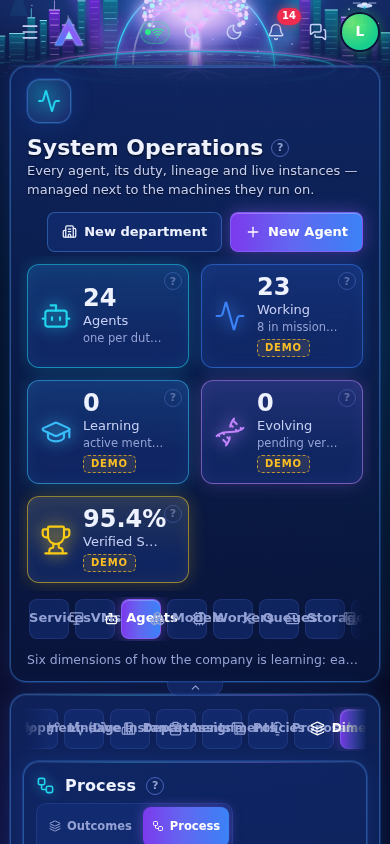
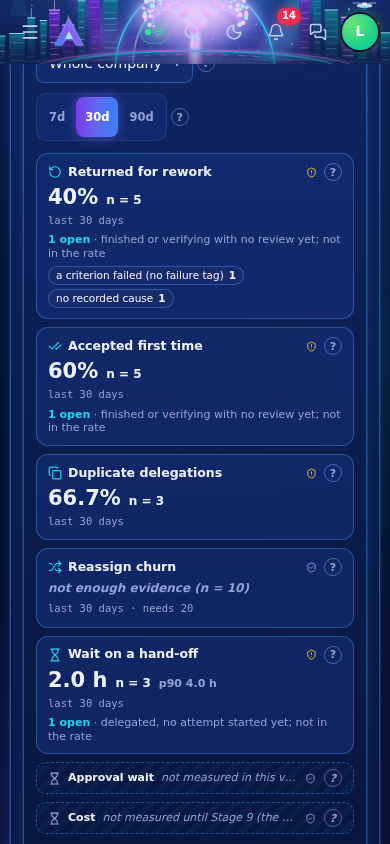
fix(c69): review round, simulator briefs are not delegation decisions, a clock test, the history scan reuses c66's, role names on the card controls, honest coverage notes
RED: c69-process-route with the system-brief filter removed: AssertionError: expected { …(15) } to match object { value: 66.7, n: 3 }
GREEN: c69-process-route 11/11 (incl. the clock test), c69-registry 4/4, contracts 15/15, api-c69 36/36.

diff --git a/web/src/features/agents/ProcessView.tsx b/web/src/features/agents/ProcessView.tsx
@@ -45,7 +45,7 @@ function Card({ c, w, i, g, demo }: { c: ProcessCell; w: ProcessWindow; i: numbe
         <HelpTrigger k={c.key} />
       </header>
       {c.state === 'ok'
-        ? <Tip label={c.evidence}><div className="proc-cv" tabIndex={0} aria-label={c.evidence}><b className="tnum">{fmtProc(c)}</b><span className="proc-n tnum">n = {c.n}</span>{p90 && <span className="proc-p90 tnum" title="90th percentile, nearest rank">{p90}</span>}
+        ? <Tip label={c.evidence}><div className="proc-cv" tabIndex={0} role="group" aria-label={`${c.label}: ${c.evidence}`}><b className="tnum">{fmtProc(c)}</b><span className="proc-n tnum">n = {c.n}</span>{p90 && <span className="proc-p90 tnum" title="90th percentile, nearest rank">{p90}</span>}
             {T && <small className="proc-tr" title={`previous window: ${prev} (n = ${c.previous.n})`}><T size={12} aria-hidden />{prev}</small>}</div></Tip>
         : <div className="proc-cv proc-none">{c.state === 'unmeasured' && <Hourglass size={12} aria-hidden />}{c.state === 'none' ? `not enough evidence (n = ${c.n})` : c.evidence}</div>}
       <div className="proc-meta tnum">{demo ? 'SAMPLE · ' : ''}{c.state === 'unmeasured' ? 'no source' : WIN[w]}{c.state === 'none' && c.minN ? ` · needs ${c.minN}` : ''}</div>
@@ -63,7 +63,7 @@ export function ProcessView({ data, error, w, byId, demo }: { data: ProcessDto |
     <div className="proc-wrap" data-process="ready" data-window={w} data-department={data.department ?? ''}>
       <div className="proc-grid" role="list" aria-label="Process figures">{measured.map((c, i) => <div role="listitem" key={c.key} className="proc-li"><Card c={c} w={w} i={i} g={byId(c.key, c.label)} demo={demo} /></div>)}</div>
       {blank.length > 0 && <div className="proc-blank" data-unmeasured={blank.map((c) => c.key).join(',')}>
-        {blank.map((c) => <div key={c.key} className="proc-bl" data-pcell={c.key} data-state="unmeasured"><Hourglass size={13} aria-hidden /><b>{c.label}</b><Tip label={c.evidence}><span tabIndex={0}>{c.evidence.split(':')[0]}</span></Tip><GuardTrigger g={byId(c.key, c.label)} compact /><HelpTrigger k={c.key} /></div>)}
+        {blank.map((c) => <div key={c.key} className="proc-bl" data-pcell={c.key} data-state="unmeasured"><Hourglass size={13} aria-hidden /><b>{c.label}</b><Tip label={c.evidence}><span tabIndex={0} role="note" aria-label={c.evidence}>{c.evidence.split(':')[0]}</span></Tip><GuardTrigger g={byId(c.key, c.label)} compact /><HelpTrigger k={c.key} /></div>)}
       </div>}
       <p className="dim dim-note proc-note">{data.department ?? 'Whole company'} · {new Date(data.from).toLocaleDateString()} to {new Date(data.to).toLocaleDateString()} · missions you can see; no simulated or DEMO rows · open items sit beside a figure, never inside it · no total, no "good" level</p>
     </div>

diff --git a/server/test/c69-process-route.test.ts b/server/test/c69-process-route.test.ts
@@ -1,4 +1,5 @@
 import { describe, it, expect, beforeAll, afterAll } from 'vitest';
+import { vi } from 'vitest';
 import { makeTestApp, withAdmin, Browser, type TestApp } from './helpers.ts';
 import { PROCESS_KEYS } from '../../shared/contracts/src/index.ts';
 
@@ -130,5 +131,23 @@ describe('hand-off wait and duplicate delegation from real rows (DB time)', () =
   });
   it('2 of 3 delegations share a normalised goal: 66.7', async () => {
     expect(cell(await proc(A), 'duplicate_delegation')).toMatchObject({ value: 66.7, n: 3 });
+  });
+  it('briefs written by the staffing simulator (created_by system) are not a delegation decision: three identical ones change nothing', async () => {
+    for (let i = 0; i < 3; i++) await q(`insert into delegation_briefs(tenant_id, mission_id, from_id, from_kind, to_instance, to_agent, brief, sha256, depth, created_by) values ('t-1','H','system','user','H:coder-01','coder-01',$1::jsonb,$2,1,'system')`, [JSON.stringify({ goal: 'Contribute to this mission within your role' }), String(200 + i).padEnd(64, '0')]);
+    expect(cell(await proc(A), 'duplicate_delegation')).toMatchObject({ value: 66.7, n: 3 });
+  });
+});
+
+describe('the window end is the database clock (c54 rule)', () => {
+  it('with the application clock an hour behind, the window still ends at the database now(), and a review written a moment ago is inside it', async () => {
+    await mission('CK', adminId, { shared: true });
+    await instance('CK', 'coder-01');
+    for (let i = 1; i <= 3; i++) { await task(`CK${i}`, 'CK', 'coder-01', 'passed'); await review(`TR-CK${i}`, 'CK', `CK${i}`, 'coder-01', 'rejected', 0); }
+    vi.useFakeTimers({ toFake: ['Date'], now: Date.now() - 3_600_000 });
+    let r: any;
+    try { r = await A.req('GET', '/company/process?window=7d'); } finally { vi.useRealTimers(); }
+    expect(r.status).toBe(200);
+    expect(Math.abs(new Date(r.body.to).getTime() - Date.now())).toBeLessThan(60_000);
+    expect(r.body.cells.find((c: any) => c.key === 'process.rework_rate').n, 'the three reviews written with now() are inside the window').toBeGreaterThanOrEqual(3);
   });
 });

diff --git a/server/test/c69-registry.test.ts b/server/test/c69-registry.test.ts
@@ -1,6 +1,5 @@
 import { describe, it, expect } from 'vitest';
-import { readdirSync, readFileSync, statSync } from 'node:fs';
-import { join } from 'node:path';
+import { scanWrites } from './contracts/writability.ts';
 import { METRICS, METRIC_BY_ID, INPUT_FIELD_IDS, WRITE_SITES, guardRows, writabilityOf, registryProblems, PROCESS_KEYS } from '../../shared/contracts/src/index.ts';
 
 /**
@@ -30,11 +29,8 @@ describe('c69 process rows in the c66 registry', () => {
       'process.handoff_wait_h': true, 'process.approval_decision_h': false, 'process.cost': false,
     });
   });
-  it('task_owner_history is written only by a database trigger: no source file in server/src inserts into it', () => {
-    const SRC = join(__dirname, '../src');
-    const walk = (d: string): string[] => readdirSync(d).flatMap((f) => (statSync(join(d, f)).isDirectory() ? walk(join(d, f)) : f.endsWith('.ts') ? [join(d, f)] : []));
-    const writers = walk(SRC).filter((f) => /\b(insert\s+into|update|delete\s+from|truncate)\s+(?:only\s+)?(?:"?public"?\.)?"?task_owner_history\b/i.test(readFileSync(f, 'utf8')));
-    expect(writers).toEqual([]);
+  it('task_owner_history is written only by a database trigger: the c66 source scan (insert, update, delete, merge, truncate, copy, quoted, schema-qualified, templated) finds no writer in server/src', () => {
+    expect([...scanWrites({ 'task_owner_history.owner': { what: 'the owner history', tables: ['task_owner_history'] } })]).toEqual([]);
     // the history changes exactly where tasks.owner does: the sites that write tasks.owner also list the history field
     for (const [id, s] of Object.entries(WRITE_SITES)) expect(s.writes.includes('tasks.owner'), id).toBe(s.writes.includes('task_owner_history.owner'));
   });

diff --git a/server/src/company/process-routes.ts b/server/src/company/process-routes.ts
@@ -42,8 +42,10 @@ export default async function processRoutes(app: FastifyInstance) {
           from task_reviews r join tasks t on t.id = r.task_id where r.tenant_id=$1 and r.mission_id = any($2::text[]) and r.created_at <= now()`, [T, ids]);
       const tags = await q(`select subject_id, mode_id, coalesce(decided_at, created_at) as at from failure_tags
           where tenant_id=$1 and mission_id = any($2::text[]) and subject_kind='task' and status='confirmed' and taxonomy_version=$3`, [T, ids, FAILURE_TAXONOMY_VERSION]);
+      // the staffing simulator writes a brief for every agent it places (created_by 'system', simulated false on a real mission); those are not a delegation decision, and several share a fallback goal
       const briefs = await q(`select b.id::text as id, b.mission_id, b.to_agent, b.brief->>'goal' as goal, b.created_at, b.supersedes_id::text as supersedes_id, b.simulated from delegation_briefs b
-          where b.tenant_id=$1 and b.mission_id = any($2::text[]) and b.created_at <= now()`, [T, ids]);
+          where b.tenant_id=$1 and b.mission_id = any($2::text[]) and b.created_at <= now()
+           and b.created_by <> 'system'`, [T, ids]);
       const history = await q(`select h.task_id, h.agent_id, h.at, h.seq from task_owner_history h join tasks t on t.id = h.task_id
           where h.tenant_id=$1 and t.mission_id = any($2::text[]) and h.at <= now()`, [T, ids]);
       const handoffs = await q(`select d.mission_id, d.task_id, i.agent_id as to_agent, d.at, d.simulated,

diff --git a/web/docs/improve/cycles/c69-report.md b/web/docs/improve/cycles/c69-report.md
@@ -32,7 +32,7 @@ The Dimensions tab already fills 1366x768 (c54). I built the Process group as a 
 ## Fixtures and hand-computed values (all asserted with exact equality)
 Window 30d ending 2026-11-21T12:00Z; previous window the 30 days before it.
 
-**Reviews** (tasks t1-t14, agents a1 a2 Eng, b1 Ops):
+**Reviews** (tasks t1-t11, tx, p1 and p2; agents a1 a2 Eng, b1 Ops):
 - First reviews in the window: t1 accepted, t2 changes_requested (a criterion failed), t3 rejected (tag FM-1.1), t4 changes_requested (tags FM-1.1 and FM-2.2), t5 changes_requested (its only tag is confirmed after the window end, so unknown then), t7 accepted (Ops), t8 accepted but stale. t6 has a first review 40 days old (outside) and a second inside; tx is simulated; t9 passed and t10 verifying have no review (open); t11 running (not open).
 - Rework, whole company: cohort 7, returned 4, **4/7 = 57.1**, open **2**, causes FM-1.1 1, a criterion failed 1, no recorded cause 1, several failure modes 1. Eng: 6 tasks, 4 returned = **66.7**. Ops: 1 task = not enough evidence. Previous window: t6, p1 (returned), p2 = **33.3**, trend up.
 - First-pass, whole company: cohort 8 (t1 t2 t3 t4 t5 t6 t7 t8); first review accepted and not stale: t1 t6 t7 = 3; **3/8 = 37.5**. Eng: 7 tasks, 2 = **28.6**. A stale t1 gives 2/8 = 25.
@@ -53,23 +53,26 @@ Window 30d ending 2026-11-21T12:00Z; previous window the 30 days before it.
 c66 tests changed (tightened, with the reason): `c66-registry.test.ts` (a) the live-row list now includes the process cells, so a new process row without an entry fails; (b) the "11 gameable" count and its snapshot are scoped to the three c66 row kinds, because the process rows have their own pin in `c69-registry.test.ts` (`process.rework_rate`, `first_pass_acceptance`, `duplicate_delegation` and `handoff_wait_h` gameable; `reassign_churn`, `approval_decision_h` and `cost` not). `contracts/writability.ts` adds `company/process-routes.ts` to the loader files whose tables must be declared inputs. `contracts/coverage.test.ts` adds the seeded flow (31 lines) and three calls. `validators.ts` adds `'process'` to the row kind. `allowlists.ts` and `exercised.ts` are untouched: **no allowlist line**. No c46, c54 or c66 browser script was edited.
 
 ## Pass threshold
-| Item | Result | Evidence |
+Verdicts are PASS, FAIL or NOT MET only. Two items are NOT MET, and they are the two controller decisions at the end of this report.
+
+| Item | Verdict | Evidence |
 |---|---|---|
-| Items 1-4 RED -> GREEN | PASS | table above. Item 4's contract entries have no separate RED (see the table); item 3's RED is the previous UI against `api-c69.mjs` |
-| Every c46, c54 and c66 test passes unchanged, or is tightened with a reason | PASS | no c46, c54 or c66 browser script was edited; api-c46 36/36 and api-c66 26/26 unchanged. Server c66 tests: two tightenings (live-row list now includes process rows; the 11-gameable pin is scoped to the c66 row kinds) with the reason above. All c46/c54/c66 server tests pass |
-| Full vitest and tsc | PASS | `heavy.sh npx vitest run` at default workers (load 13-17): **82 files, 2205 tests passed, 0 failed**, no connection errors, so the serial fallback was not needed. `tsc --noEmit` clean for server and web |
-| api-c69 (new), api-c46, api-c66, api-stage6 | PASS | api-c69 **34/34**, api-c46 **36/36**, api-c66 **26/26**, api-stage6 **94/94** (`E2E_API_PORT=11792 E2E_WEB_PORT=11793`, db axion_e2e6) |
-| verify-all 10/10 | PASS | "verify-all: ALL 10 STEPS PASSED" (OUT=/tmp/axion-verify-w67, dev server on :11790, load 13-17), including the help-keys step |
-| fit-check clean | PASS | `fit-check.mjs 1366 768`: "ALL FIT". `api-c69` also checks the Process view itself at 1366x768: no inner or page scroll, no card clipped, note line on screen |
-| a11y clean in both modes | PASS | demo: 51 views, 64 dialogs, 0 violations. api: 41 views, 64 dialogs, 0 violations |
-| api-mobile has no new FAIL | PASS | "NO FAILURES" (its SMALL-target lines are informational; the one new control is the Process view's compact guard, 24 px under the coarse-pointer rule c66 added). `api-c69` checks 390 px: no horizontal scroll, every card on screen |
-| (a) each metric has a documented formula and an exact-equality hand-computed fixture | PASS | 17 pure tests plus the route test; formulas in the header of `process.ts` and in the `?` of each card. **Approval time-to-decision is an unmeasured cell** (c58 not in this base), so it has a stated reason and no formula |
+| Items 1-4 RED -> GREEN | PASS | table above. Item 4's contract entries have no separate RED (see the table); item 3's RED is the previous UI against `api-c69.mjs`. A late fix (simulator briefs) has its own RED: `c69-process-route` expected 66.7 and got another value with the filter removed |
+| Every c46, c54 and c66 test passes unchanged, or is tightened with a reason | PASS | no c46, c54 or c66 browser script was edited; api-c46 36/36 and api-c66 26/26 unchanged. Server c66 tests: two tightenings (live-row list now includes process rows; the 11-gameable pin is scoped to the c66 row kinds) with the reason above. All c46, c54 and c66 server tests pass |
+| Full vitest and tsc | PASS, with one note | `heavy.sh npx vitest run` at default workers (load 13-17): **82 files, 2205 tests passed, 0 failed**, no connection errors, so the serial fallback was not needed. `tsc --noEmit` clean for server and web. After that run I made small server changes (the simulator-brief filter, two more tests in `c69-process-route`, one stronger test in `c69-registry`); I re-ran `c69-process-route`, `c69-registry` and `server/test/contracts` (all pass) but not the whole suite again |
+| api-c69 (new), api-c46, api-c66, api-stage6 | PASS | api-c69 **34/34** in the chain, **36/36** in the last run (after adding the keyboard/name checks and the mobile screenshot scroll), api-c46 **36/36**, api-c66 **26/26**, api-stage6 **94/94** (`E2E_API_PORT=11792 E2E_WEB_PORT=11793`, db axion_e2e6) |
+| verify-all 10/10 | PASS | "verify-all: ALL 10 STEPS PASSED" (OUT=/tmp/axion-verify-w67, dev server on :11790, load 13-17), including the help-keys step. It runs in demo mode on the default Outcomes view |
+| fit-check clean | PASS for the default view | `fit-check.mjs 1366 768`: "ALL FIT". **It never opens the Process view.** The Process view is checked only by `api-c69` (api mode, 1366x768: no inner or page scroll, no card clipped, note line on screen) |
+| a11y clean in both modes | PASS for the default view | demo: 51 views, 64 dialogs, 0 violations; api: 41 views, 64 dialogs, 0 violations. **Neither run clicks "Process".** The Process view's a11y is covered only by the keyboard/name checks in `api-c69` (api mode); the light-mode check asserts only that it renders |
+| api-mobile has no new FAIL | PASS | "NO FAILURES". **api-mobile does not reach the Process view**: the Dimensions tab is not listed in its log (`grep Dimensions` finds nothing), so it only shows that nothing else broke. The new control on the default view is the Outcomes/Process switch. The Process view at 390 px is checked only by `api-c69` (no horizontal scroll, five cards of 318 px on screen) and the mobile screenshot |
+| Demo-mode Process view | NOT CHECKED | `demoProcess` (labelled SAMPLE cards) was never rendered by any check: verify-all stays on the default view and `api-c69` is api-only (a demo sign-in is needed). Typechecked only |
+| (a) each metric has a documented formula and an exact-equality hand-computed fixture | PASS | 17 pure tests plus the route tests; formulas in the header of `process.ts` and in the `?` of each card. Approval time has no formula (see below) |
 | (b) open items reported separately in every rate | PASS | rework, first-pass and hand-off wait carry `open` beside the figure and never in the denominator (tests: 2 open tasks, a task with no review, an open hand-off). Duplicate delegations and churn have no open state |
 | (c) lag check | NOT BUILT (dropped by the brief) | the leading/lagging tag is not built either |
 | (d) every figure shows n | PASS | every cell is a value with n and window, or "not enough evidence (n = k)", or an unmeasured cell with n unknown; checked in the pure tests, the route test and `api-c69` (DOM equals the API) |
-| Handoff wait: time from delegation to the delegate's first action, and approval time-to-decision, reusing c58/c65's stored latency | **PARTLY NOT MET** | the delegation half is built (first started attempt of the task; no actor is recorded on an attempt). The approval half is NOT MET: c58 and c65 are not in this branch, there is no stored latency to reuse, and the brief forbids recomputing it. The cell is honest and blank |
-| "Process" group next to the outcome rows, one screen at 1366x768 and 390 px | **PARTLY MET** | the group exists on the company view and, through the department selector, on any department, with n, window, `?` formula and the c66 guard popover. It is a view of the Dimensions panel (one control away), not a seventh row on the same screen: a row overflowed the pinned layout by 46-87 px. Screenshots below |
-
+| Hand-off wait: time from a delegation to the delegate's first action | PASS | median and p90 in SQL, open hand-offs beside, exact fixtures (Eng median 5 / p90 9). "First action" is the first started attempt of the task (no actor is recorded on an attempt) |
+| Approval time-to-decision, reusing c58/c65's stored latency | **NOT MET** | c58 and c65 are not in this branch; there is no stored latency to reuse and the brief forbids recomputing it. The cell is an honest blank. For the controller's weighing: the Outcomes view already shows c54's timestamp-based "Median approval decision time" under Collective (request to first decision, from timestamps), so a number for approvals exists today, just not from the stored latency |
+| "Process" group next to the outcome rows, one screen at 1366x768 and 390 px | **NOT MET as worded** | built: a Process view of the Dimensions panel, one control away (shared department and window controls, n, window, `?` formula and the c66 guard popover on every card, fits 1366x768 and 390 px by `api-c69`). Not built: a group on the same screen as the six rows, because a row overflowed the pinned layout by 46-87 px |
 
 ## Files changed
 ```
@@ -91,7 +94,12 @@ web/scripts/api-c69.mjs, web/docs/screenshots/improve-c69-*.png, this report
 6. **Counter-metrics are my reading of the data**, as in c66; read the seven sentences. Two rows (duplicate delegations, approval wait) declare an explicit "none" with a reason. The gameable flag classifies what the code permits (reviews, tags, briefs and delegation edges have agent-reachable writers); no agent executes, so none has been gamed.
 7. **Cost of the loader.** Reviews, briefs and owner history are read for the tenant's visible missions without a time bound (a first review can be old); c46 does the same for reviews. It is fine at today's volumes; a bound would need a "first review" column or an index-backed subquery.
 8. **A rate over a small cohort is drawn small** (n below 10) and needs 3 (churn needs 20). No composite and no "good" threshold is claimed; the order of the cards says nothing.
-9. No migration was needed (no number was used). Background jobs started here (dev server on 11790, vitest, the e2e chain, verify-all and the final checks) were all finished or stopped by port before hand-back.
+9. **Simulator briefs (found in review, fixed).** The staffing simulator writes a brief for every agent it places, with `created_by 'system'` and `simulated false` on a real mission; their goal is the plan's "why", or the fallback "Contribute to this mission within your role". Several agents with the fallback goal would have counted as duplicates. The loader now excludes `created_by = 'system'` briefs (test with three identical system briefs). A person's or an agent's own brief still counts.
+10. **Clock guard.** `clock-bounds.test.ts` lists routes by hand, not by file scan, so the new route was not covered by it. I added the same test to `c69-process-route.test.ts` (app clock an hour behind: the window end is the database clock and fresh rows are inside).
+11. **History scan.** `c69-registry.test.ts` now uses c66's own `scanWrites` (all verbs, quoted, schema-qualified, templated) on a one-table inventory, not a narrower regex. It still sees only `server/src`, so a trigger, a migration or a script that wrote the history would not be caught.
+12. **Two definition edges.** Backfilled owner-history rows (migration 0039) carry the migration's timestamp, so every task that existed then looks "first assigned" at that moment and is in no window's churn cohort before it. Reassigning a task that is already running leaves its hand-off open indefinitely, because no new attempt starts, so such hand-offs sit in "open" and never enter the median.
+13. **Screenshots read.** Dark, light and the 390 px mobile shot were opened; the mobile shot now scrolls to the cards. The light shot shows the same layout; the amber shield, the chips and the dashed blanks are readable.
+14. No migration was needed (no number was used). Background jobs started here (dev server on 11790, vitest, the e2e chain, verify-all and the final checks) were all finished or stopped by port before hand-back.
 
 ## Screenshots
 `web/docs/screenshots/improve-c69-dark.png`, `improve-c69-light.png`, `improve-c69-mobile.png` (the Process view with seeded rows; 1366x768 dark and light, 390 px).
